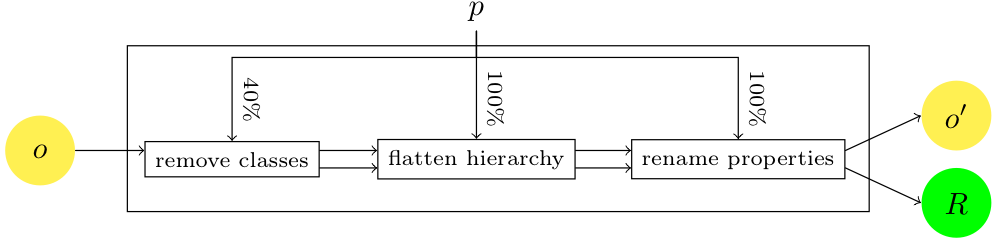
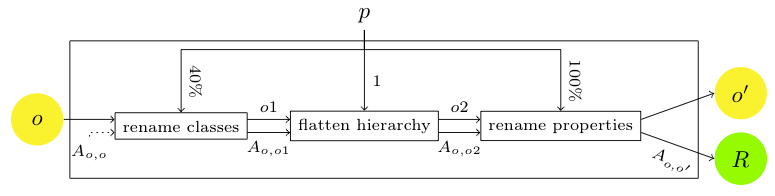
- improved documentation evaluation/test generation

Changed region(s): [[0.0, 0.1224, 1.0, 0.9796], [0.0929, 0.7347, 0.1548, 0.8265], [0.4645, 0.0, 0.4955, 0.0918]]

diff --git a/html/testgen.html b/html/testgen.html
@@ -98,40 +98,144 @@ alignment. Following the schema of the figure.
 <h3>Predefined alterators</h3>
 
 <p>
-The available predefined alterators are:
-<dl>
-<dt>EmptyModification []</dt>
-<dd>generates a test in which the initial ontology is not
-  altered. This test is used in test sets (see below), for the root test.</dd>
-<!--dt>AddClassLevel [addClassLevel=<i>p.n</i>]</dt>
-<dd>adds at level <i>p</i> (from the top) of the class hierarchy </dd-->
-<dt>AddClasses [addClasses=<i>p</i>]</dt>
-<dd>adds <i>p</i>% classes.</dd>
-<dt>AddProperties [addProperties=<i>p</i>]</dt>
-<dd>adds <i>p</i>% properties.</dd>
-<dt>FlattenLevel [levelFlattened=<i>n</i>]</dt>
-<dd>removes all classes of level <i>n</i> (their subclasses are
-  directly connected to their superclasses).</dd>
-<!--dt>RemoveClassLevel []</dt>
-<dd></dd-->
-<dt>RemoveClasses [removeClasses=<i>p</i>]</dt>
-<dd>removes <i>p</i>% of classes.</dd>
-<dt>RemoveComments [removeComments=<i>p</i>]</dt>
-<dd>removes <i>p</i>% of comments.</dd>
-<dt>RemoveIndividuals [removeIndividuals=<i>p</i>]</dt>
-<dd>removes <i>p</i>% of individuals.</dd>
-<dt>RemoveProperties [removeProperties=<i>p</i>]</dt>
-<dd>removes <i>p</i>% of properties.</dd>
-<dt>RemoveRestrictions [removeRestrictions=<i>p</i>]</dt>
-<dd>removes <i>p</i>% of restriction.</dd>
-<dt>RenameClasses [renameClasses=<i>p</i>]</dt>
-<dd>renames <i>p</i>% of classes in various ways [default: random]</dd>
-<dt>RenameProperties [renameProperties=<i>p</i>]</dt>
-<dd>renames <i>p</i>% of properties in various ways [default: random]</dd>
-<dt>SuppressHierarchy [noHierarchy]</dt>
-<dd>suppresses all subclasses relations (but to owl:Thing)</dd>
-</dl>
+We provide a description of the alterators currently implemented in the Alignment API. 
 </p>
+<p>
+Their functional description is given at the level of OWL, however, the actual implementation largely differs by taking advantage of different internal structures referring to an actual ontology model. Hence, sometimes modifications are applied on the OWL structure, and sometimes they are applied at the level of triples. However, the final model and alignments are generated at the end of the process. This is only at the end of the process that the entities are assigned a final URI.
+</p>
+<p>
+Parameters are key-value pairs defining the degree or modalities of alteration.
+The priority is expressed by a level such that modifications of lower level must be applied before modifications of higher level.
+</p>
+<dl>
+<dt>EmptyModification</dt><dd>
+<b>Class:</b> <tt>fr.inrialpes.exmo.align.gen.alt.EmptyModification</tt>
+<br /><b>No parameters</b>
+<br /><b>Result:</b> generates a test in which the initial ontology is not altered. This test is used in test sets, for generating as initial identity alignment.
+<br /><b>Functional description:</b> For each class and each property in the input ontology, creates a correspondence with equivalence between this entity and itself.
+<br /><b>Priority:</b> 0
+
+</dd><dt>RemoveClasses</dt><dd>
+<b>Class:</b> <tt>fr.inrialpes.exmo.align.gen.alt.RemoveClasses</tt>
+<br /><b>Parameters:</b> removeClasses=<i>p</i>
+<br /><b>Result:</b> removes <i>p</i>% of classes.
+<br /><b>Functional description:</b> Selects randomly <i>p</i>% of classes to suppress from the ontology.
+For each of these classes, 
+% removeClass
+	attaches, directly, its subclasses to its superclasses (including constraints, i.e., anonymous <tt>Restriction</tt> classes);
+	attaches, directly, its instances to its superclasses;
+	converts all restrictions involving it (<tt>allValuesFrom</tt>, <tt>someValueFrom</tt>) with its superclasses; 
+% changeDomainRange
+	converts all property restrictions involving it (<tt>domain</tt>, <tt>range</tt>) with its superclasses;
+	remove the class.
+% alignment.remove
+Updates the alignment by suppressing all correspondences involving the suppressed classes.
+<br /><b>Priority:</b> 1
+
+</dd><dt>RemoveComments</dt><dd> 
+<b>Class:</b> <tt>fr.inrialpes.exmo.align.gen.alt.RemoveComments</tt>
+<br /><b>Parameters:</b> removeComments=<i>p</i>
+<br /><b>Result:</b> removes <i>p</i>% of comments.
+<br /><b>Functional description:</b> Selects randomly and independently from the ontology <i>p</i>% of classes, properties and individuals whose comments will be suppressed. Removes the comments of each selected entity.
+The alignment is not modified.
+<br /><b>Priority:</b> 2
+
+</dd><dt>RemoveIndividuals</dt><dd> 
+<b>Class:</b> <tt>fr.inrialpes.exmo.align.gen.alt.RemoveIndividuals</tt>
+<br /><b>Parameters:</b> removeIndividuals=<i>p</i>
+<br /><b>Result:</b> removes <i>p</i>% of individuals.
+<br /><b>Functional description:</b> Selects randomly <i>p</i>% of individuals to suppress from the ontology.
+Suppresses from the ontology model all statements using these individuals, either as subject or object.
+The alignment is not modified, because it does not contain individuals.
+<br /><b>Priority:</b> 2
+
+</dd><dt>RemoveProperties</dt><dd> 
+<b>Class:</b> <tt>fr.inrialpes.exmo.align.gen.alt.RemoveProperties</tt>
+<br /><b>Parameters:</b> removeProperties=<i>p</i>
+<br /><b>Result:</b> removes <i>p</i>% of properties.
+<br /><b>Functional description:</b> Selects randomly <i>p</i>% of properties to suppress from the ontology.
+For each of these properties,
+	remove all restrictions (<tt>allValuesFrom</tt>, <tt>someValuesFrom</tt>) involving it,
+	remove all assertions involving it.
+% alignment.remove
+Updates the alignment by suppressing all correspondences involving the suppressed properties.
+<br /><b>Priority:</b> 2
+
+</dd><dt>RemoveRestrictions</dt><dd> 
+<b>Class:</b> <tt>fr.inrialpes.exmo.align.gen.alt.RemoveRestrictions</tt>
+<br /><b>Parameters:</b> removeRestrictions=<i>p</i>
+<br /><b>Result:</b> removes <i>p</i>% of restriction.
+<br /><b>Functional description:</b> Selects randomly <i>p</i>% of properties restrictions to suppress from the ontology.
+For each of these restrictions, remove it from the model.
+The alignment is not modified.
+<br /><b>Priority:</b> 3
+
+</dd><dt>RenameClasses</dt><dd> 
+<b>Class:</b> <tt>fr.inrialpes.exmo.align.gen.alt.RenameClasses</tt>
+<br /><b>Parameters:</b> renameClasses=<i>p</i>, renameMethod=<i>m</i>
+<br /><b>Result:</b> renames <i>p</i>% of classes depending on the requested method <i>m</i> (random strings, translation, synonyms) [default: random]
+<br /><b>Functional description:</b> Selects randomly <i>p</i>% of classes from the ontology to rename.
+For each of these classes, create a new name depending on the selected <i>m</i> and replace its <tt>rdfs:label</tt> by the new name.
+For each triple of the model, all URI fragments are replaced if necessary by the corresponding new name.
+Each correspondence of the alignment involving a renamed class is replaced by the corresponding new URI.
+<br /><b>Priority:</b> 4
+
+</dd><dt>RenameProperties</dt><dd> 
+<b>Class:</b> <tt>fr.inrialpes.exmo.align.gen.alt.RenameProperties</tt>
+<br /><b>Parameters:</b> renameProperties=<i>p</i>, renameMethod=<i>m</i>
+<br /><b>Result:</b> renames <i>p</i>% of properties depending on the requested method <i>m</i> (random strings, translation, synonyms) [default: random]
+<br /><b>Functional description:</b> Selects randomly <i>p</i>% of properties from the ontology to rename.
+For each of these properties, create a new name depending on the selected <i>m</i>.
+For each triple of the model, all URI fragments are replaced if necessary by the corresponding new name.
+Each correspondence of the alignment involving a renamed property is replaced by the corresponding new URI.
+<br /><b>Priority:</b> 4
+
+</dd><dt>AddClasses</dt><dd>
+<b>Class:</b> <tt>fr.inrialpes.exmo.align.gen.alt.AddClasses</tt>
+<br /><b>Parameters:</b> addClasses=<i>p</i>
+<br /><b>Result:</b> adds <i>p</i>% classes.
+<br /><b>Functional description:</b> Selects randomly <i>p</i>% of classes from the ontology to add a subclass to.
+For each of these classes, generates randomly a new name; creates a new subclass of the selected class with this name.
+The alignment is not modified.
+<br /><b>Priority:</b> 5
+
+</dd><dt>AddProperties</dt><dd>
+<b>Class:</b> <tt>fr.inrialpes.exmo.align.gen.alt.AddProperties</tt>
+<br /><b>Parameters:</b> addProperties=<i>p</i>
+<br /><b>Result:</b> adds <i>p</i>% properties.
+<br /><b>Functional description:</b> Selects randomly <i>p</i>% of properties from the ontology to add. 
+For each of these properties, generates randomly a new name. 
+For half of these new properties, creates an <tt>ObjectProperty</tt>: selects randomly a <tt>domain</tt> and <tt>range</tt> among the classes and assign them to this property.
+For the other half of these new properties, creates a <tt>DatatypeProperty</tt>: selects randomly a <tt>domain</tt> among the classes and assign it to this property. <tt>range</tt> is set to <tt>xsd:string</tt>.
+The alignment is not modified.
+<br /><b>Priority:</b> 5
+
+</dd><dt>FlattenLevel</dt><dd>
+<b>Class:</b> <tt>fr.inrialpes.exmo.align.gen.alt.FlattenLevel</tt>
+<br /><b>Parameters:</b> levelFlattened=<i>n</i>
+<br /><b>Result:</b> removes all classes of level <i>n</i> (their subclasses are directly connected to their superclasses).
+<br /><b>Functional description:</b>
+% This code should be fully rewrited!
+For each class of that level,
+	attaches, directly, its subclasses to its superclasses (including constraints, i.e., anonymous <tt>Restriction</tt> classes);
+	attaches, directly, its instances to its superclasses;
+% checkClassesRestrictions
+	converts all restrictions involving it (<tt>allValuesFrom</tt>, <tt>someValueFrom</tt>) with its superclasses; 
+% changeDomainRange
+	converts all property restrictions involving it (<tt>domain</tt>, <tt>range</tt>) with its superclasses;
+	remove the class.
+Updates the alignment by suppressing all correspondences involving the suppressed classes.
+<br /><b>Priority:</b> 6
+
+</dd><dt>SuppressHierarchy</dt><dd> 
+<b>Class:</b> <tt>fr.inrialpes.exmo.align.gen.alt.SuppressHierarchy</tt>
+<br /><b>No parameter</b>%noHierarchy
+<br /><b>Result:</b> suppresses all subclasses relations (but to <tt>owl:Thing</tt>)
+<br /><b>Functional description:</b> Suppresses all <tt>subClassOf</tt> assertions towards other named classes (assertions towards <tt>Restriction</tt>s remain).
+The alignment is not modified.
+<br /><b>Priority:</b> 7
+</dd>
+</dl>
 
 <h3>Adding new alterators</h3>
 

diff --git a/html/cli.html b/html/cli.html
@@ -13,17 +13,20 @@
 The implementation offers various command line tools available in
 the <tt>fr.inrialpes.exmo.align.cli</tt> package:
 <dl>
-<dt>ParserPrinter</dt><dd></dd>
+<dt>Procalign</dt><dd>Runs a matcher on a pair of ontologies</dd>
+<dt>ParserPrinter</dt><dd>Parses and alignment and displays it in
+    various formats.</dd>
 <!--dt>DiffAlign</dt><dd>TODO</dd-->
-<dt>Procalign</dt><dd></dd>
-<dt>EvalAlign</dt><dd></dd>
-<dt>TestGen</dt><dd></dd>
-<dt>GroupAlign</dt><dd></dd>
-<dt>GroupEval</dt><dd></dd>
-<dt>ExtGroupEval</dt><dd></dd>
-<dt>WGroupEval</dt><dd></dd>
-<dt>GroupOutput</dt><dd></dd>
-<dt>GenPlot</dt><dd></dd>
+<dt>EvalAlign</dt><dd>Evaluates and alignment with respect to a
+    reference alignment.</dd>
+<dt>TestGen</dt><dd>Generates tests for evaluating matchers.</dd>
+<dt>GroupAlign</dt><dd>Runs a matcher against several different test cases.</dd>
+<dt>GroupEval</dt><dd>Evaluates several matcher results in several different test cases.</dd>
+<dt>ExtGroupEval</dt><dd>Same as above with extended evaluators</dd>
+<dt>WGroupEval</dt><dd>Same as above with weighted evaluators.</dd>
+<dt>GenPlot</dt><dd>Generates various pliots from matcher resulst
+    (ROC curves or precision/recall graphs).</dd>
+<dt>GroupOutput</dt><dd>Generates other representations of matcher results.</dd>
 </dl>
 </p>
 <p>
@@ -38,8 +41,7 @@ These command line operations usually share switch conventions:
 <p>
 Another such utility (<tt>ParserPrinter</tt>) allows to read an
 alignment, to manipulate it and to output it without processing
-the <tt>align</tt> method. Other utilities dealing with evaluation are
-presented in <a href="eval.html">the evaluation page</a>.
+the <tt>align</tt> method.
 </p>
 
 <h2>Matching</h2>
@@ -113,8 +115,8 @@ in the <a href="testgen.html">test generation page</a>.
 
 <p>
 Tools for evaluating (<tt>EvalAlign</tt>) and batch evaluating
-alignments  (<tt>GroupEval</tt>) and displaying
-results (<tt>GenPlot</tt>) are described in the <a href="eval.html">evaluation page</a>.
+alignments  (<tt>GroupEval</tt>, <tt>ExtGroupEval</tt>, <tt>WGroupEval</tt>) and displaying
+results (<tt>GenPlot</tt>, <tt>GroupOutput</tt>) are described in the <a href="eval.html">evaluation page</a>.
 </p>
 
 <address>

diff --git a/html/eval.html b/html/eval.html
@@ -335,6 +335,33 @@ $ java -cp ../lib/procalign.jar fr.inrialpes.exmo.align.cli.GroupEval -t triangl
   better.</b>
 </center>
 
+<p>
+The display below synthesises the results of a matchers by aggregating
+in one cell a group of tests in which the ontologies to compare share
+a common set of characteristics (namely that the same set of features
+has been altered). 
+Each diamond shaped cell corresponds to the
+availability of some features in the test (l=label and comments,
+p=properties, i=instances, h=hierarchy).
+Each cell is presented with a color representing the
+average of the F-measure in each of these tests. The darker the cell,
+the better the algorithm. These diagrams are topologically correct,
+i.e., if a cell touches another cell on one side, they differ from
+only one 'feature', but not complete, i.e., it is not possible to
+present all these connections in a planar way.
+This graphic representation is obtained through the <tt>GroupOutput</tt>
+class by generating a Latex file corresponding in the following figure.
+<div class="terminal">
+$ java -cp ../lib/procalign.jar fr.inrialpes.exmo.align.cli.GroupOutput -v -c -m f -l "refalign,matcher1,matcher2,..." > losanges.tex
+</div>
+</p>
+
+<center>
+<img src="img/losanges.png" /><br />
+<b>Matcher performance display by <tt>GroupOutput</tt> on a grid preserving as much as possible
+the topology of tests.</b>
+</center>
+
 <h2>Implementing and extending the API</h2>
 
 <p>

diff --git a/html/license.html b/html/license.html
@@ -13,8 +13,8 @@
   the <a href="credits.html">credit page</a>.</p>
 
 <p>The alignment API and its implementation is distributed under the
-  GNU <a href="../distrib/LICENSE.TXT">Lesser General Public
-  License</a>.</p>
+  GNU <a href="http://www.gnu.org/licenses/lgpl-2.1.html">Lesser General Public
+  License</a> 2.1 or above.</p>
 
 <p>Other terms may be granted on demand.</p>
 
